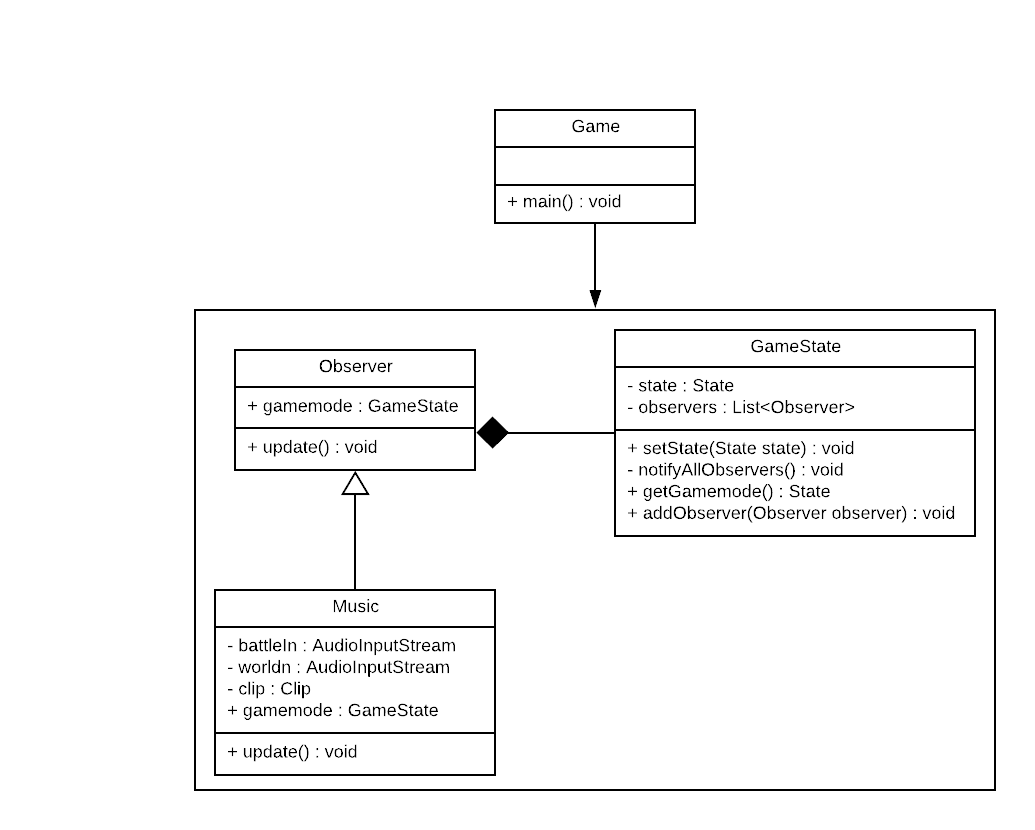
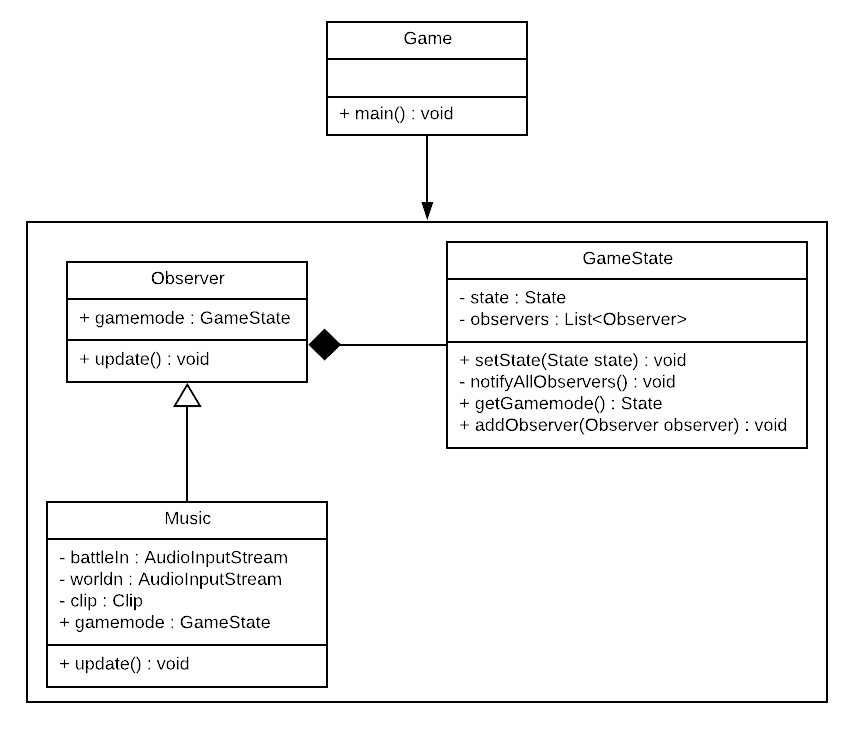
Changed image ObserverPattern

diff --git a/docs/README.md b/docs/README.md
@@ -182,7 +182,7 @@ We have applied the **Observer Pattern**. This pattern allows us to make sure a 
 #### The Implementation
 
 <p align="center">
-  <img width=135 src="images/ObserverPattern.png">
+  <img width=435 src="images/ObserverPattern.png">
 </p>
 
 
